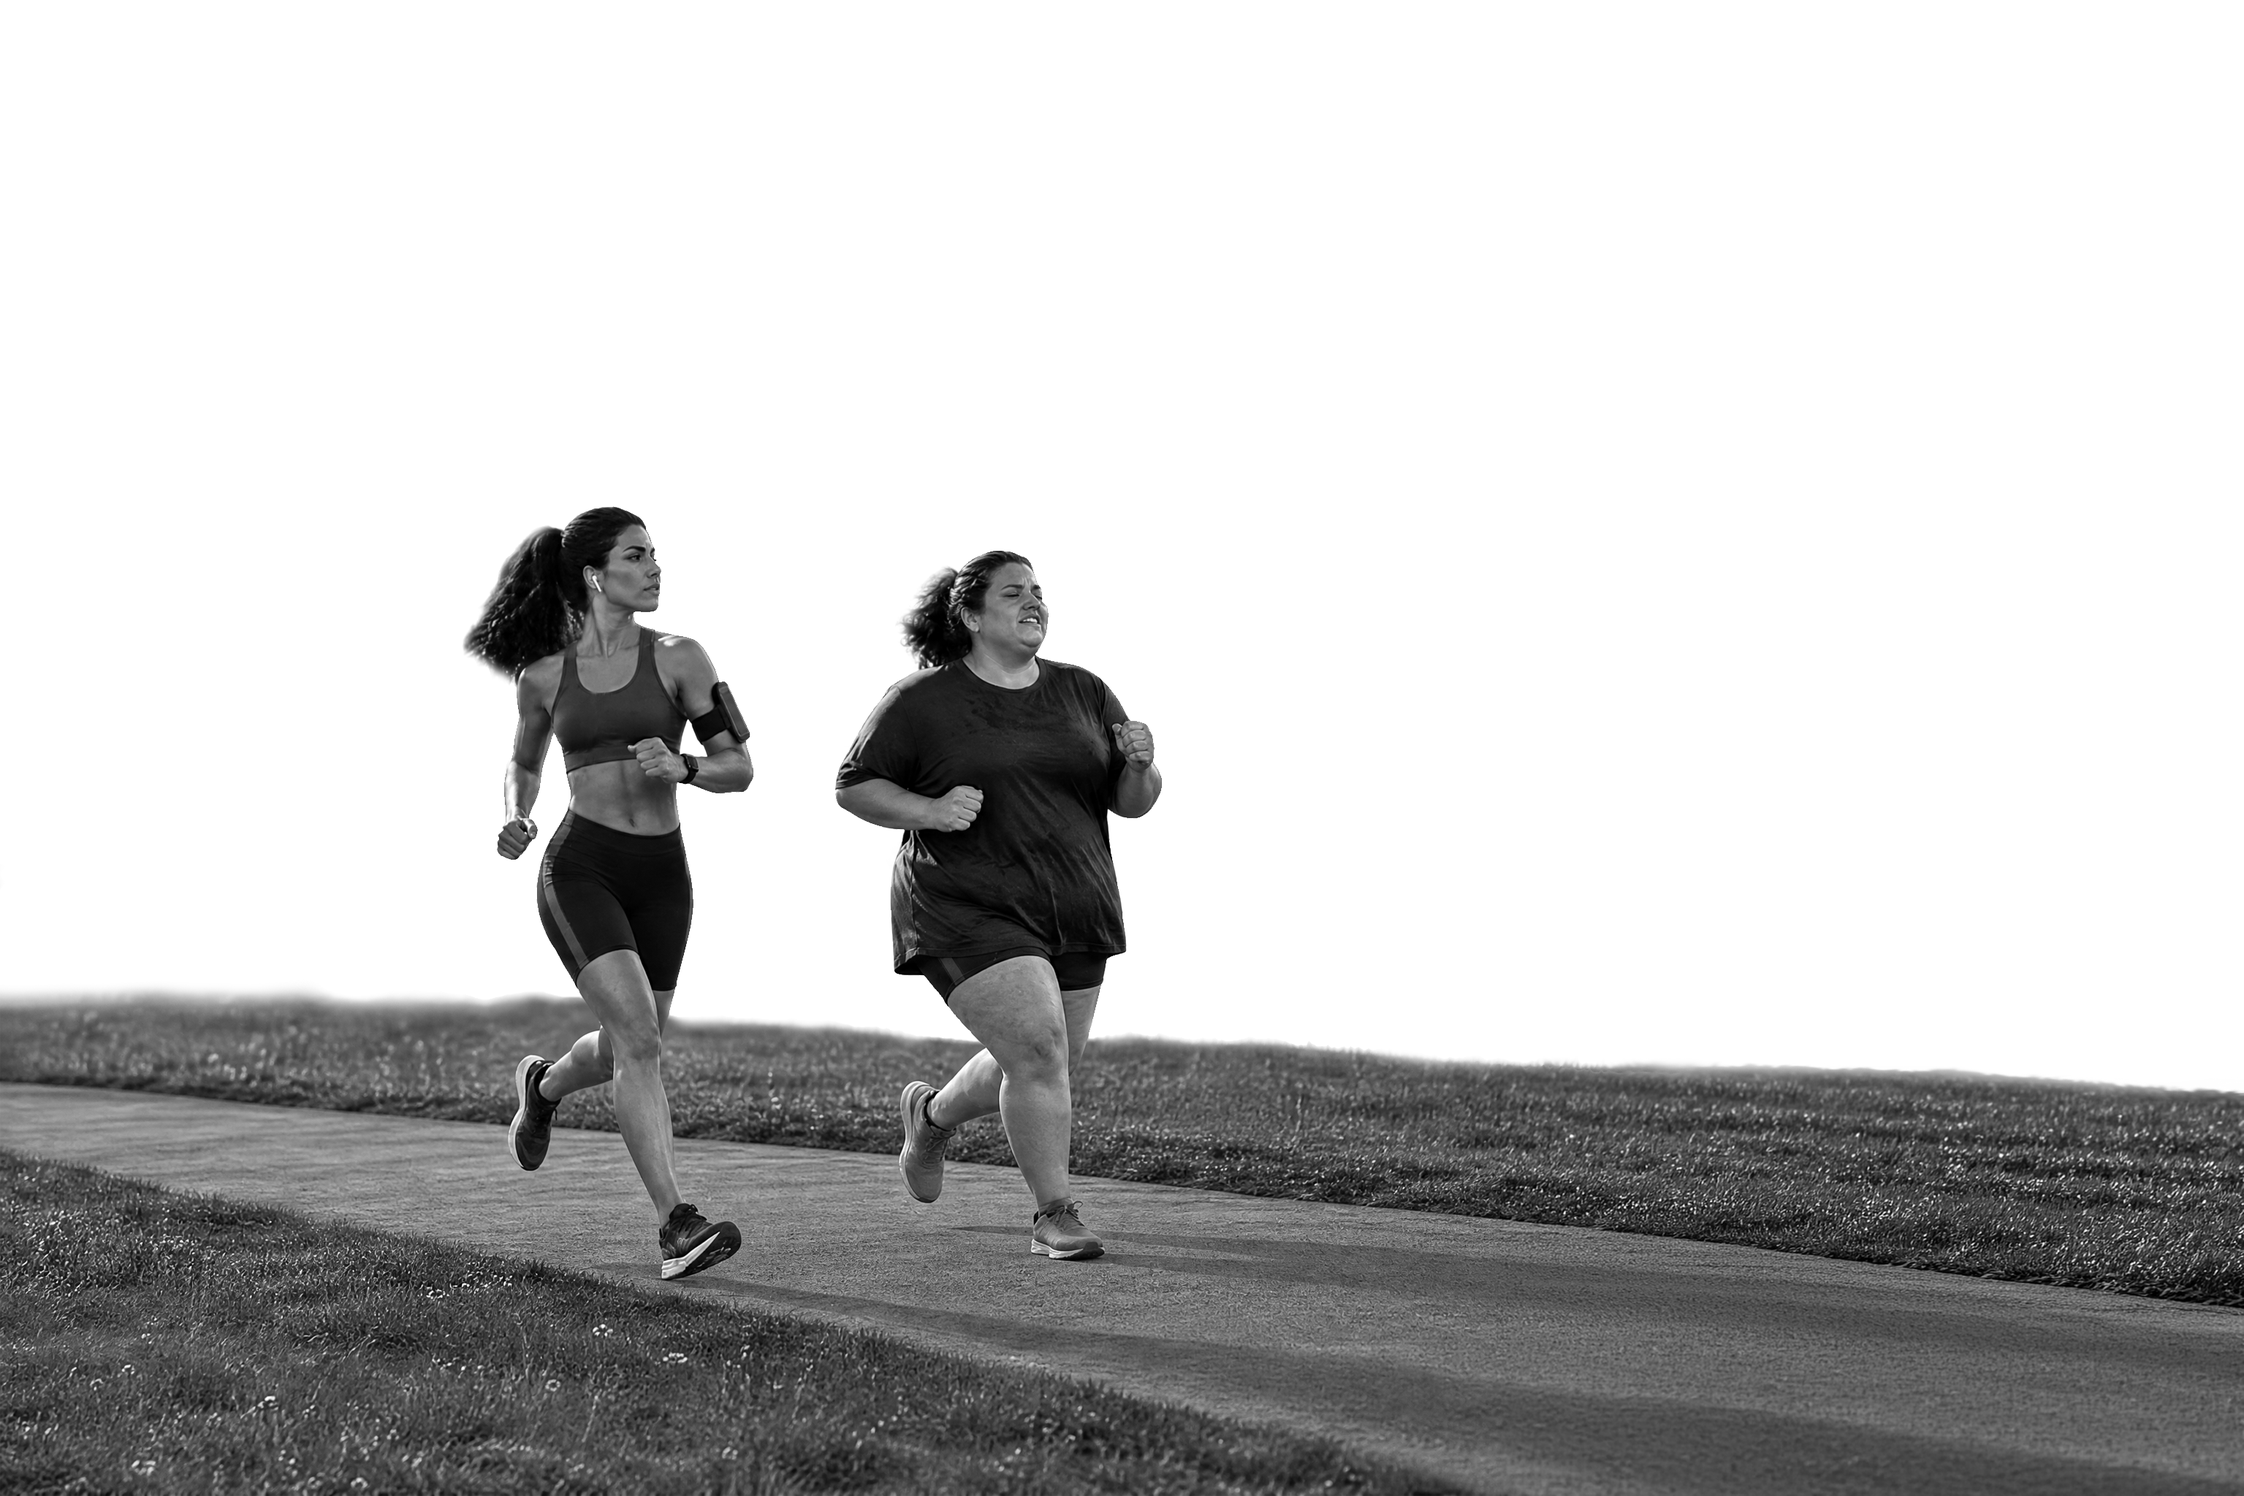
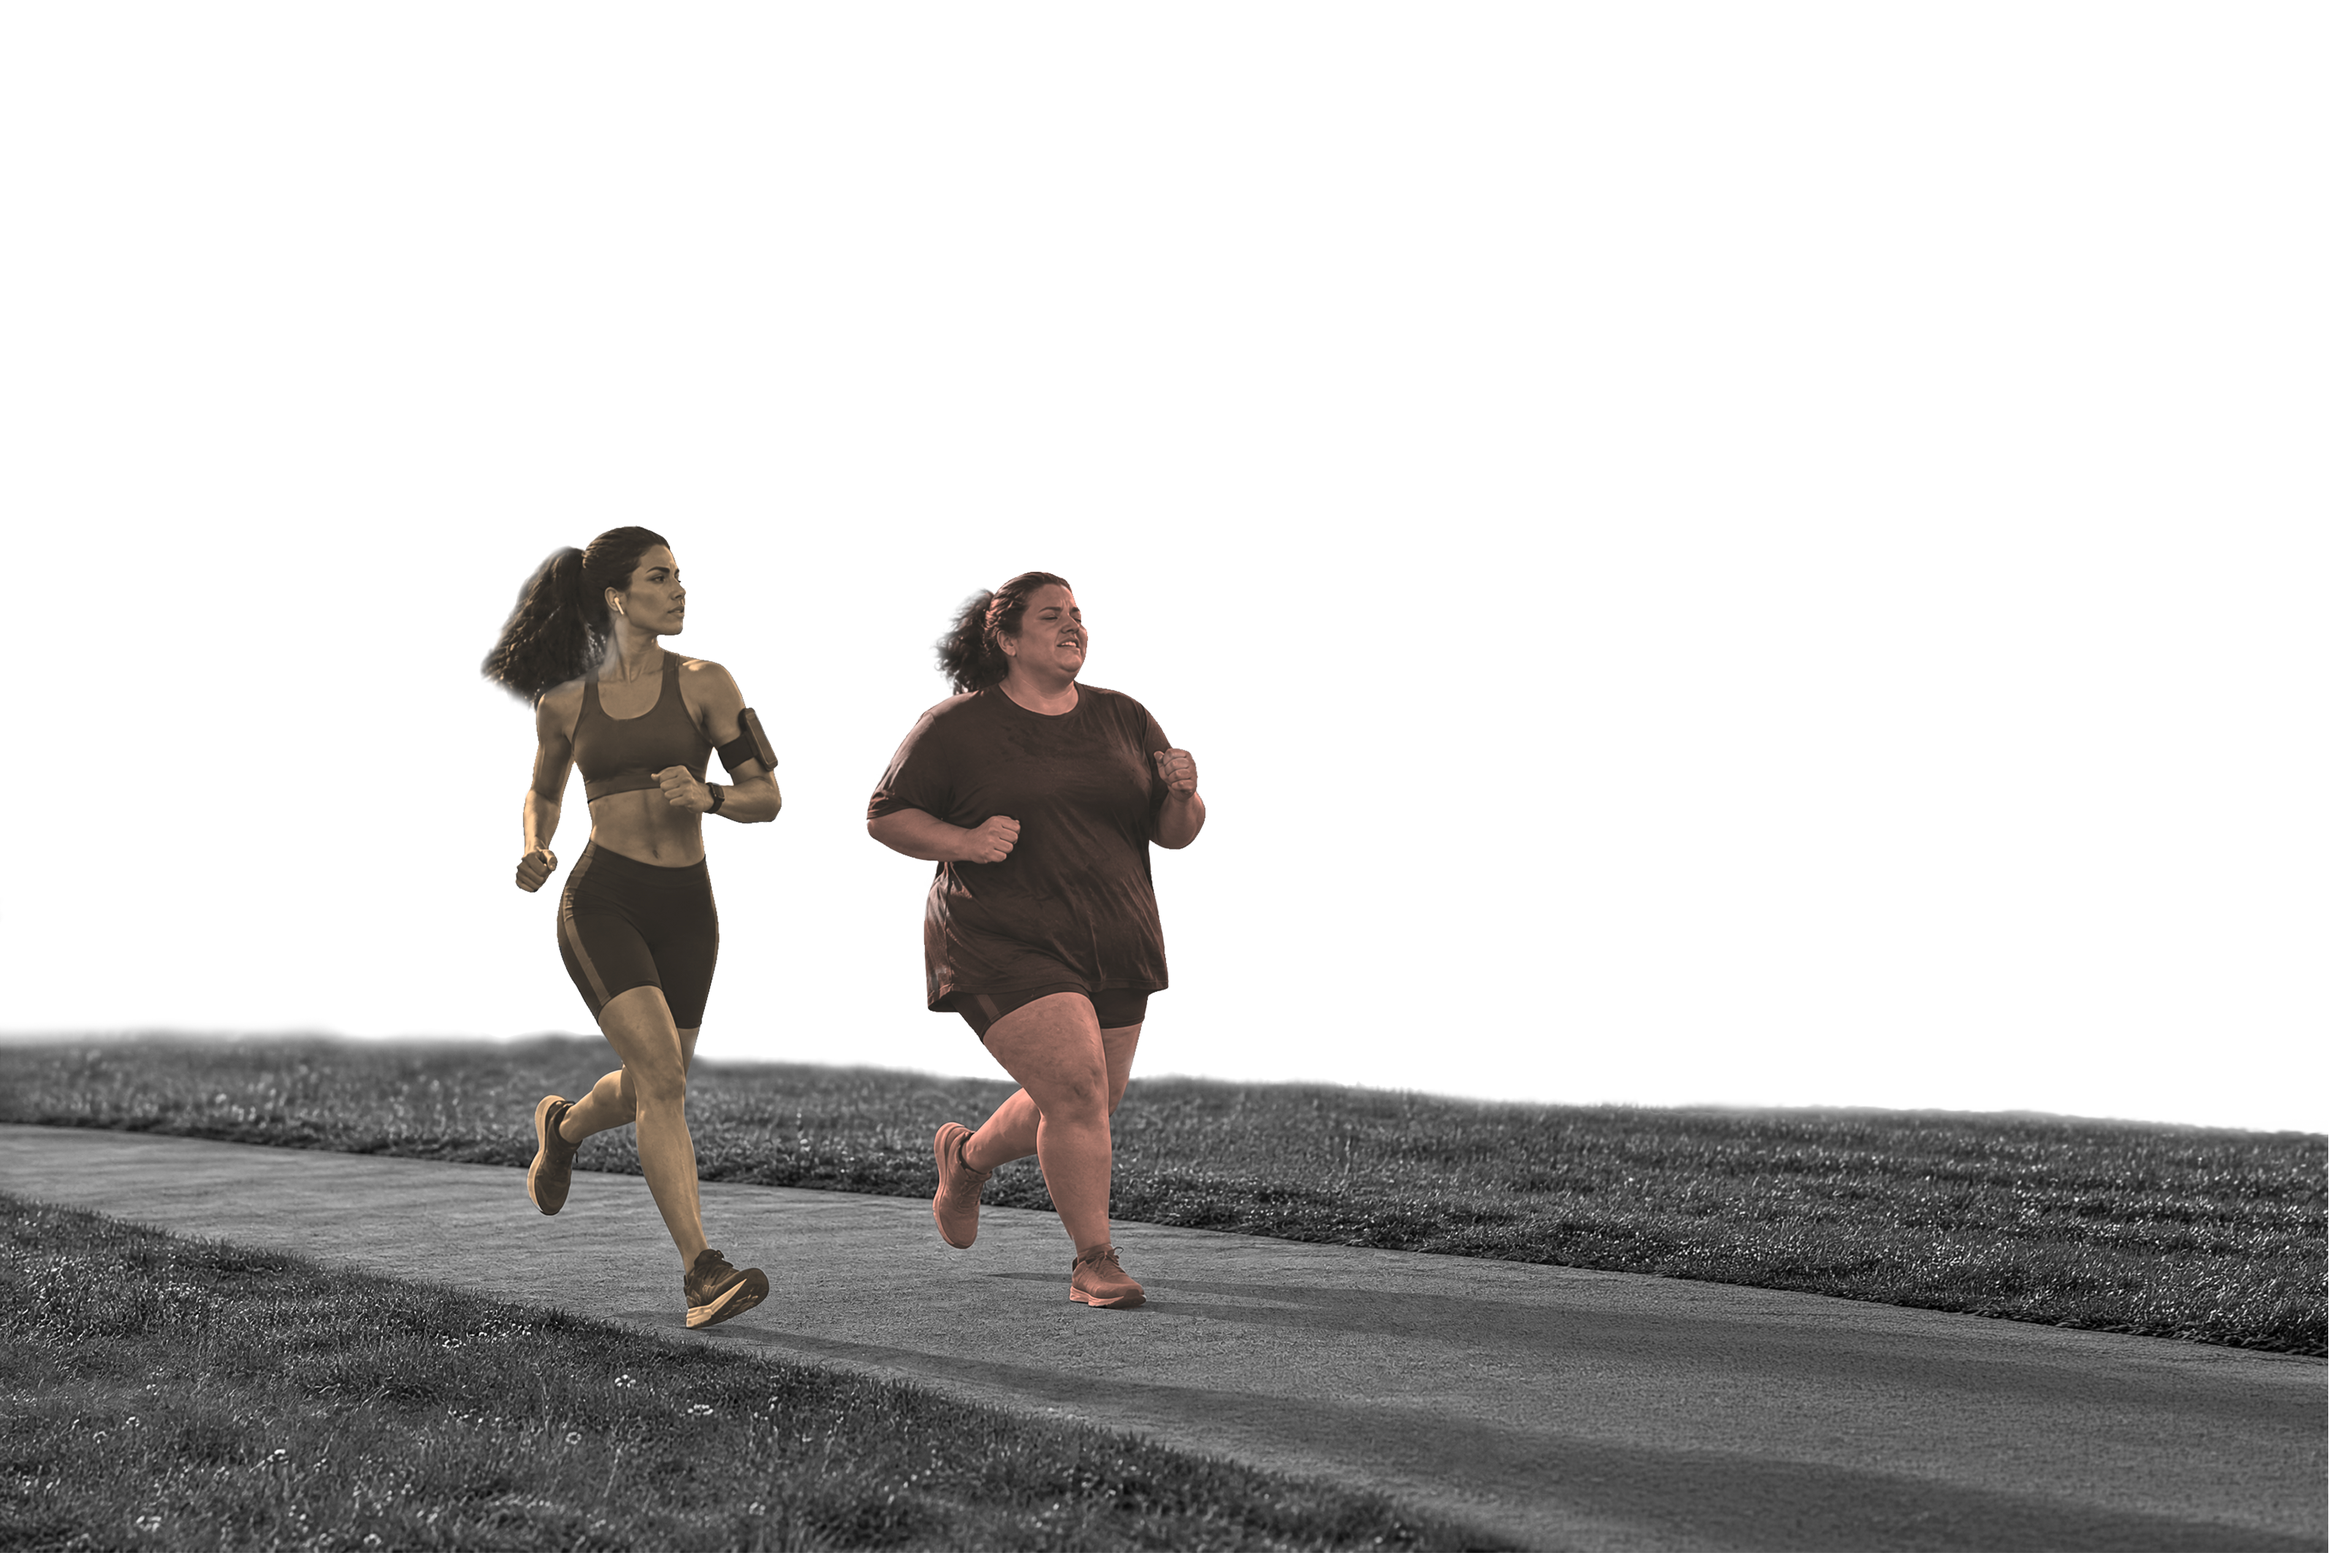
feat: hero com overlay escuro e novas imagens
Overlay em navy para leitura sobre a foto; título em branco/paper, lede mais larga e tamanhos ajustados. Imagens antigas movidas para assets/img/old/ (fora do git).

diff --git a/css/components.css b/css/components.css
@@ -233,7 +233,7 @@
   content: "";
   position: absolute;
   inset: 0;
-  background: linear-gradient(90deg, var(--color-paper) 0%, var(--color-paper) 0%, rgba(241, 233, 219, 0.62) 10%, rgba(241, 233, 219, 0.15) 30%, rgba(241, 233, 219, 0) 100%);
+  background: linear-gradient(90deg, #0B122E 0%, #0B122E 0%, #0b122ea6 10%, #0b122e1f 30%, rgba(241, 233, 219, 0) 100%);
   pointer-events: none;
 }
 
@@ -243,11 +243,14 @@
 }
 
 .hero-title-color {
-  color: var(--color-magenta);
+  color: #ffffff;
+}
+.hero-title-color-02 {
+  color: var(--color-paper-in-ink);
 }
 
 #hero .lede {
-  max-width: 24ch;
+  max-width: 35ch;
 }
 
 /* ==========================================================================

diff --git a/css/typography.css b/css/typography.css
@@ -19,7 +19,7 @@
 .hero-title {
   font-family: var(--font-hero);
   font-weight: 400;
-  font-size: clamp(2rem, 5vw, 5.5rem);
+  font-size: clamp(2rem, 5vw, 3.5rem);
   line-height: 1.02;
   text-transform: none;
   letter-spacing: -0.01em;
@@ -28,7 +28,7 @@
 .hero-title-color {
   font-family: var(--font-hero);
   font-weight: 400;
-  font-size: clamp(2.5rem, 6vw, 7rem);
+  font-size: clamp(2.5rem, 6vw, 6rem);
   line-height: 1.02;
   text-transform: none;
   letter-spacing: -0.01em;

diff --git a/css/base.css b/css/base.css
@@ -6,7 +6,7 @@
 *::before,
 *::after {
   box-sizing: border-box;
-  margin: 0;
+  margin: 0px 0px;
   padding: 0;
 }
 

diff --git a/sections/hero.php b/sections/hero.php
@@ -21,9 +21,9 @@
         <span class="eyebrow" style="color: var(--color-sky);">Saúde e Direitos</span>
         <h1 class="hero-title">
           <span class="hero-title-color">Movimentar-se é um direito:</span><br />
-          quem fica de fora e por quê?
+          <span class="hero-title-color-02">quem fica de fora e por quê?</span>
         </h1>
-        <p class="lede" style="margin-top: var(--space-lg);">
+        <p class="lede hero-title-color-02" style="margin-top: var(--space-lg);">
           Por que, mesmo sabendo que o esporte salva vidas, tantas pessoas ainda estão fora dele?
         </p>
       </div>
